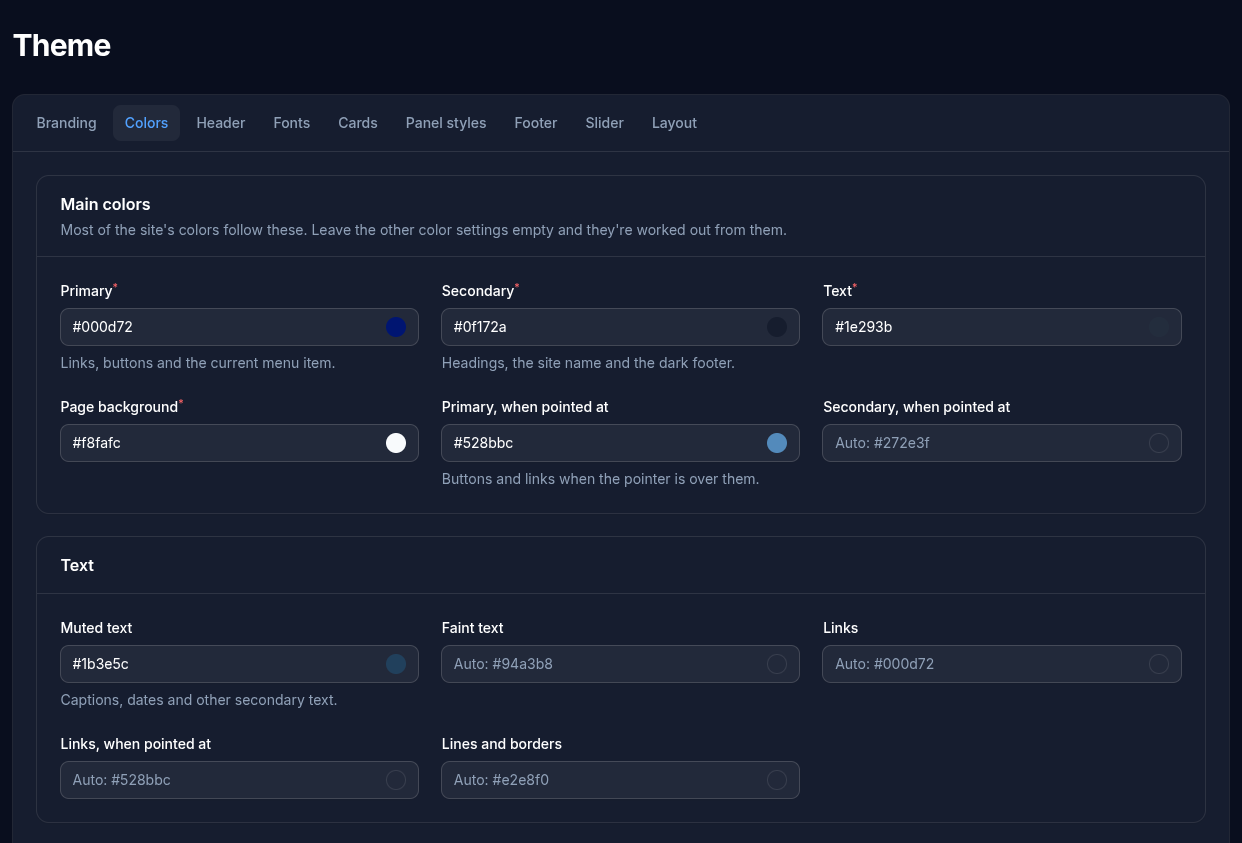
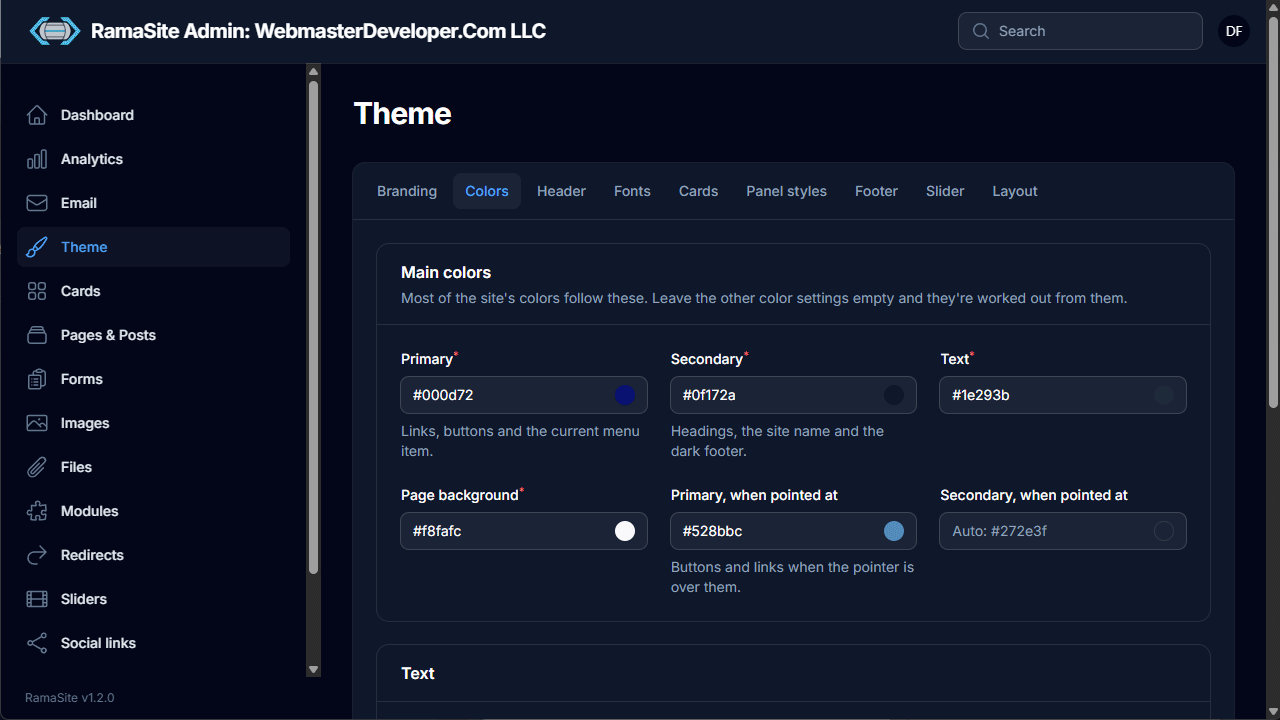
Update the docs screenshots from the new admin screen library
Replace the 13 existing screenshots under the same names, and add 12
new ones for the Email, Users, card, module, footer, redirect, slider,
social links and Theme screens, each placed under its section. Names
and email addresses are blacked out.

diff --git a/docs/theme.md b/docs/theme.md
@@ -8,10 +8,6 @@ Most settings start **empty, meaning automatic**: their value is worked out from
 
 If the settings have changed since you opened the screen, in another browser tab or by another admin, **Save** stops and asks what to do. **Load the latest settings** discards what you've changed on this screen. **Save my version anyway** replaces everything with what's on this screen.
 
-![The Fonts tab, with a live sample under each font](https://raw.githubusercontent.com/DaleFranks/ramasite/main/docs/screenshots/fonts.png)
-
-![The Colors tab, where empty settings show the automatic value in grey](https://raw.githubusercontent.com/DaleFranks/ramasite/main/docs/screenshots/colors.png)
-
 ## Tabs
 
 **Branding**
@@ -20,9 +16,13 @@ If the settings have changed since you opened the screen, in another browser tab
 - **Logo** and **Browser tab icon** (a small square image).
 - Logo height, maximum width, and whether it tilts slightly when pointed at.
 
+![The Branding tab, with the site name, timezone, logo and browser tab icon](https://raw.githubusercontent.com/DaleFranks/ramasite/main/docs/screenshots/theme-branding.png)
+
 **Colors**
 - The four main colors: **Primary** (links, buttons, the current menu item), **Secondary** (headings, the site name, the dark footer), **Text** and **Page background**.
 - Detailed colors for hover states, muted text, links, borders and code.
+
+![The Colors tab, where empty settings show the automatic value in grey](https://raw.githubusercontent.com/DaleFranks/ramasite/main/docs/screenshots/colors.png)
 
 **Header**
 - **Layout**: logo on the left with the menu beside it, or centered with the menu below; whether the header stays visible while scrolling; and the **site name** beside the logo, below it, or not shown (logo only). The site name can also hide once the visitor scrolls down.
@@ -33,12 +33,16 @@ If the settings have changed since you opened the screen, in another browser tab
 - **Header bar**: background color, menu link colors, the header's height at the top of the page and once scrolled, and an optional background image.
 - **Menu on phones**: the colors of the menu that opens from the menu button.
 
+![The Header tab, with the logo position, where the site name goes, and the switches for keeping the header visible](https://raw.githubusercontent.com/DaleFranks/ramasite/main/docs/screenshots/theme-header.png)
+
 **Fonts**
 - The body and heading fonts, plus fonts for quotes, large display headings and code, chosen from a list of Google Fonts grouped by type. Type in a list to search it. A sample of the chosen font appears beneath each list. Display and handwriting fonts aren't offered for body text. Fonts load from Google; a site doesn't keep font files of its own.
 - **Text size** for body text.
 - **Text alignment**: **Left** or **Justified**, for paragraphs, lists and quotes in pages and posts. Justified text goes back to left on phones and small tablets. Headings are always left-aligned, and tables, cards and modules aren't affected.
 - **Line height**: the space between lines of text in pages and posts, as a multiple of the text size. It starts at 1.6, and clearing the box puts 1.6 back. Anything inside a page's content follows it unless it has spacing of its own, such as headings. The site's header, menu and footer don't.
 - **Headings**: the font, size, weight, color and line height of Heading 1 and page titles, which every other heading level follows by default. Heading 2 to Heading 6 can each have their own font, size, weight and color, and line height is shared by all of them. A font without the chosen weight uses its closest one. Headings in Dark, Light and Primary color panels and in cards keep their own look. Until a Heading 1 size or line height is chosen, page titles stay at 40 px and 1.15.
+
+![The Fonts tab, with a live sample under each font](https://raw.githubusercontent.com/DaleFranks/ramasite/main/docs/screenshots/fonts.png)
 
 **Cards**: card title and text colors and sizes.
 

diff --git a/docs/social-links.md b/docs/social-links.md
@@ -4,6 +4,8 @@ A set of social links is a row of logos, each linking to one of your profiles, s
 
 ## Building a set
 
+![The social links editor, with the name, slug, logo colors, logo size and the new tab switch](https://raw.githubusercontent.com/DaleFranks/ramasite/main/docs/screenshots/social-links-editor.png)
+
 - **Name** and **Slug**: the slug is used in the shortcode. While a page, post, card, module, the footer or the top bar places the set, it can't be deleted and its slug can't change; the message says where it's used, so those can be changed first.
 - **Logo colors**:
   - **Brand colors**: each logo in its brand's own color, such as Facebook's blue. Email and Website have no brand, so they use the theme's link color. Some brands' color is black (X, Threads, TikTok, GitHub, Medium and Patreon), and Snapchat's yellow is hard to see on white, so on some backgrounds another choice looks better.
@@ -13,6 +15,8 @@ A set of social links is a row of logos, each linking to one of your profiles, s
 - **Logo size**: each logo is a square this many pixels wide, from 24 to 128. In the top bar the logos are kept small enough to fit the bar.
 - **Open links in a new tab**: on by default. Email links always open the visitor's email program instead.
 - **Links**: add one line for each profile, and drag them into order. Each has a **service**, which sets its logo, and the **link** to your profile, starting with `https://`. For **Email**, enter just the email address; it becomes a link that starts an email to you.
+
+![A set's links, each with a service and the link to the profile](https://raw.githubusercontent.com/DaleFranks/ramasite/main/docs/screenshots/social-links-links.png)
 
 Screen readers announce each logo by its service's name, such as "Facebook".
 

diff --git a/docs/sliders.md b/docs/sliders.md
@@ -2,7 +2,7 @@
 
 A slider shows a series of images one at a time, with arrows to move between them. Place one in a page with `[slider:slug]`.
 
-![The slider editor, with the name, slug, animation and timing, and an image and caption for each slide](https://raw.githubusercontent.com/DaleFranks/ramasite/main/docs/screenshots/slider-editor.png)
+![The slider editor, with the name, slug, animation, timing, arrow style and arrow color](https://raw.githubusercontent.com/DaleFranks/ramasite/main/docs/screenshots/slider-editor.png)
 
 - **Name** and **Slug**: the slug is used in the shortcode. While a page or post places the slider, it can't be deleted and its slug can't change; the message says where it's used, so those can be changed first.
 - **Animation**: **Slide** (images move sideways) or **Fade** (each image fades into the next).
@@ -17,5 +17,7 @@ A slider shows a series of images one at a time, with arrows to move between the
   - **Text position**: a banner at the bottom (the starting choice) or top, or a box about 40% wide at the left or right, centered vertically. On phones, a box at the side becomes a banner at the bottom.
   - **Text color** and **Background color**: leave them empty for white text on black at 65%.
   - The image's alt text in the library is used for screen readers.
+
+![A slider's slides, each with an image, caption, slow zoom, text position and colors](https://raw.githubusercontent.com/DaleFranks/ramasite/main/docs/screenshots/slider-slides.png)
 
 An image used in a slider can't be deleted from the library until it's removed from the slider. The site-wide arrow colors and animation speed can be adjusted on the Theme screen's **Slider** tab.

diff --git a/docs/cards-and-modules.md b/docs/cards-and-modules.md
@@ -15,9 +15,13 @@ A card is a small box, such as a service, a price plan or a call to action. Card
 - **Featured**: highlights the card with a colored border and a "Featured" ribbon.
 - **Content**: Markdown. Images, videos and forms can be used inside a card.
 
+![The card editor, with the name, slug, style, text alignment and Featured switch](https://raw.githubusercontent.com/DaleFranks/ramasite/main/docs/screenshots/card-editor.png)
+
 ## Modules
 
 A module is a larger section, such as a call-to-action band or a contact section. Place one in a page with `[module:slug]`. On a page with the **Landing** layout, modules stretch across the whole window as bands.
+
+![The Modules screen, listing each module with its shortcode and style, and the footer](https://raw.githubusercontent.com/DaleFranks/ramasite/main/docs/screenshots/modules.png)
 
 Modules have a name, slug, style and content, like cards. They also have:
 
@@ -36,3 +40,5 @@ It can use these shortcodes:
 - `[navigation:multi]`: a column for each page in the menu, with its sub-pages under it
 - `[curr-year]`: the current year
 - `[site-name]`: the site name
+
+![The footer's editor, with a menu, a phone number and the copyright year in its content, and the shortcodes it can use listed below](https://raw.githubusercontent.com/DaleFranks/ramasite/main/docs/screenshots/footer-editor.png)

diff --git a/docs/analytics.md b/docs/analytics.md
@@ -2,7 +2,7 @@
 
 The **Analytics** screen adds visitor tracking and search engine verification to every page of the site. Nothing is added until you fill something in.
 
-![The Analytics & Verification screen, with boxes for Google Analytics, Tag Manager, Meta Pixel, Search Console and Bing](https://raw.githubusercontent.com/DaleFranks/ramasite/main/docs/screenshots/analytics.png)
+![The Analytics & Verification screen, with the switch to turn off tracking and boxes for the Google Analytics, Tag Manager and Meta Pixel IDs](https://raw.githubusercontent.com/DaleFranks/ramasite/main/docs/screenshots/analytics.png)
 
 For the common services you only need an ID. Paste just the ID, or the whole snippet the service gives you, and the CMS picks the ID out of it. After saving, the box shows the ID it found. If what you pasted has no ID in it, saving says so.
 

diff --git a/docs/pages-and-posts.md b/docs/pages-and-posts.md
@@ -8,7 +8,7 @@ Everything with its own address on the site is listed here. There are three type
 
 ## Writing a page or post
 
-![The page editor, with the title, slug and content on the left, and the Publishing and Layout settings on the right](https://raw.githubusercontent.com/DaleFranks/ramasite/main/docs/screenshots/page-editor.png)
+![The page editor, with the title, slug and content on the left, and the Publishing settings on the right](https://raw.githubusercontent.com/DaleFranks/ramasite/main/docs/screenshots/page-editor.png)
 
 - **Title**: shown at the top of the page and in the browser tab.
 - **Slug**: the page's address. It's filled in from the title as you type, and numbered if that address is taken (`about-2`). Pages and blogs can use slashes to sit "under" another address, such as `services/design`. A post's slug is just its own part.

diff --git a/docs/users-and-security.md b/docs/users-and-security.md
@@ -9,6 +9,8 @@ Everyone who can log in to the admin is listed on the **Users** screen. Every ac
 - **Delete**: removes someone's access. Pages they wrote are kept. You can't delete your own account, so the site always has at least one admin.
 - **Two-step login** shows who has it turned on. **Turn off two-step login** is for someone who has lost their phone or can't get the emailed codes; they can turn it back on from their profile.
 
+![The Users screen, listing each admin with whether two-step login is on, and the button to turn it off](https://raw.githubusercontent.com/DaleFranks/ramasite/main/docs/screenshots/users.png)
+
 ## Your profile
 
 Click your initial in the top-right corner and choose **Profile** to change your name, email address or password. A new password is only saved if you also enter your current one.

diff --git a/docs/forms.md b/docs/forms.md
@@ -18,7 +18,9 @@ Forms are built here and placed in a page, post, card or module with `[form:slug
 
 File uploads aren't offered.
 
-![The form editor, with the name, slug, button wording, thank-you message, addresses to email and the fields](https://raw.githubusercontent.com/DaleFranks/ramasite/main/docs/screenshots/form-editor.png)
+![The form editor, with the name, slug, button wording, thank-you message and addresses to email](https://raw.githubusercontent.com/DaleFranks/ramasite/main/docs/screenshots/form-editor.png)
+
+![The form editor's fields, each with a label, type, help text and Required switch, and a handle for dragging it into order](https://raw.githubusercontent.com/DaleFranks/ramasite/main/docs/screenshots/form-editor-fields.png)
 
 ## Submissions
 

diff --git a/docs/redirects.md b/docs/redirects.md
@@ -10,6 +10,8 @@ A redirect sends visitors (and search engines) from an address that no longer ha
 - **To**: where visitors go instead: an address on this site starting with `/`, such as `/services`, or a full web address.
 - **Type**: **Permanent (301)** when the old address has moved for good, which tells search engines to move its ranking to the new address. **Temporary (302)** if it may come back.
 
+![The redirect editor, with the old address, the new one and the type](https://raw.githubusercontent.com/DaleFranks/ramasite/main/docs/screenshots/redirect-editor.png)
+
 Capital letters don't matter: `/About_Us.aspx` and `/about_us.aspx` are the same.
 
 ## How they work

diff --git a/docs/email.md b/docs/email.md
@@ -2,6 +2,8 @@
 
 The site sends email for form submissions, password reset links and two-step login codes. It works without any setting up: by default it uses the web server's own mail sending. An SMTP server is only needed if email isn't getting through, or is landing in spam.
 
+![The Email screen, with the From address and name, and the switch to send through an SMTP server](https://raw.githubusercontent.com/DaleFranks/ramasite/main/docs/screenshots/email.png)
+
 ## Sender
 
 - **From address**: who email comes from. Use an address at your site's domain. Left empty, it's `noreply@` your domain.
